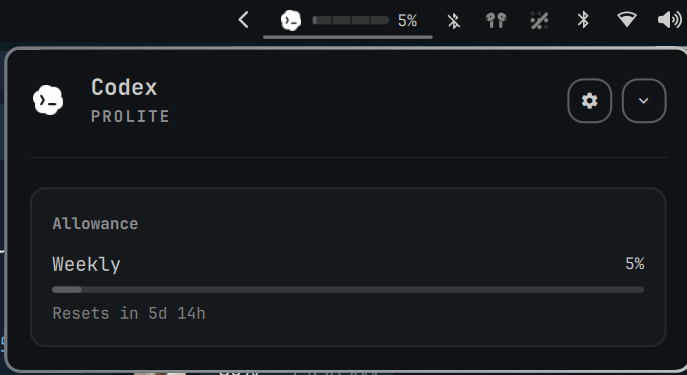
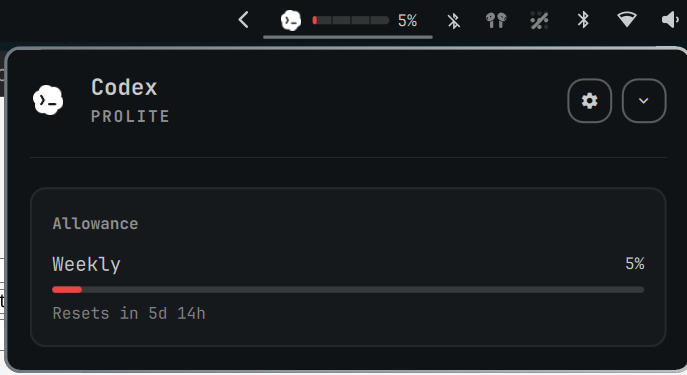
feat: make quota meter colors opt-in

diff --git a/Panel.qml b/Panel.qml
@@ -10,6 +10,7 @@ import "logic/aggregate.js" as Aggregate
 import "logic/history.js" as History
 import "logic/pace.js" as Pace
 import "logic/notifications.js" as Notify
+import "logic/meter-colors.js" as MeterColors
 
 Panel {
   id: root
@@ -19,10 +20,11 @@ Panel {
 
   readonly property color foreground: bar ? bar.foreground : Color.foreground
   readonly property color urgent: bar ? bar.urgent : Color.urgent
-  // Healthy quota gets a stable green so the meter reads as a traffic-light
-  // scale in every theme. Warn remains the intentionally fixed amber below;
-  // Critical continues to use Omarchy's live urgent color.
+  // The stable traffic-light colors are opt-in. With the option off, healthy
+  // meters retain the live foreground and Critical retains Omarchy's urgent
+  // color, preserving the widget's original theme contract.
   readonly property color healthy: "#22C55E"
+  readonly property color colorfulCritical: "#EF4444"
   // A fixed amber rather than a foreground/urgent blend: warn needs to read
   // as its own distinct traffic-light color at a glance, not a paler shade
   // of critical that's easy to mistake for it against a dim theme.
@@ -262,9 +264,12 @@ Panel {
     return Thresholds.severityFor(percent * 100, root.severityThresholds)
   }
   function colorForSeverity(severity) {
-    if (severity === "critical") return root.urgent
-    if (severity === "warn") return root.warn
-    return root.healthy
+    var role = MeterColors.paletteRole(severity, usage.colorfulUsageMeters)
+    if (role === "critical-red") return root.colorfulCritical
+    if (role === "critical") return root.urgent
+    if (role === "warn") return root.warn
+    if (role === "healthy") return root.healthy
+    return root.foreground
   }
 
   // A prepaid account runs low the way a subscription window fills up: the
@@ -2670,15 +2675,16 @@ Panel {
                   }
                 }
 
-                // Keep both immediate preferences on one visible row. The
-                // available-quota setting previously pushed Notifications and
-                // Test just below the initial viewport, making them look gone.
+                // Keep every immediate preference on one visible row. Adding
+                // another toggle must not make Settings taller or introduce
+                // scrolling; each cell stays comfortably within the wide
+                // settings panel.
                 Grid {
                   id: preferenceGrid
                   width: parent.width
-                  columns: 2
-                  columnSpacing: Style.space(16)
-                  readonly property real cellWidth: Math.floor((width - columnSpacing) / 2)
+                  columns: 3
+                  columnSpacing: Style.space(12)
+                  readonly property real cellWidth: Math.floor((width - columnSpacing * 2) / 3)
 
                   Row {
                     width: preferenceGrid.cellWidth
@@ -2694,7 +2700,28 @@ Panel {
 
                     Text {
                       anchors.verticalCenter: parent.verticalCenter
-                      text: "Show available instead of used quota"
+                      text: "Show available quota"
+                      color: root.foreground
+                      font.family: root.fontFamily
+                      font.pixelSize: Style.font.bodySmall
+                    }
+                  }
+
+                  Row {
+                    width: preferenceGrid.cellWidth
+                    spacing: Style.space(6)
+
+                    ToggleSwitch {
+                      anchors.verticalCenter: parent.verticalCenter
+                      checked: usage.colorfulUsageMeters
+                      foreground: root.foreground
+                      accent: Color.accent
+                      onToggled: usage.setColorfulUsageMeters(!usage.colorfulUsageMeters)
+                    }
+
+                    Text {
+                      anchors.verticalCenter: parent.verticalCenter
+                      text: "Color-code meters"
                       color: root.foreground
                       font.family: root.fontFamily
                       font.pixelSize: Style.font.bodySmall
@@ -2703,10 +2730,10 @@ Panel {
 
                   // Notifications are opt-in and fire once at each threshold,
                   // not on every refresh. Test remains independent of the
-                  // toggle and now reports its process result beside the button.
+                  // toggle and reports its process result beside the button.
                   Row {
                     width: preferenceGrid.cellWidth
-                    spacing: Style.space(8)
+                    spacing: Style.space(6)
 
                     ToggleSwitch {
                       anchors.verticalCenter: parent.verticalCenter
@@ -2718,7 +2745,7 @@ Panel {
 
                     Text {
                       anchors.verticalCenter: parent.verticalCenter
-                      text: "Warn/Critical notifications"
+                      text: "Threshold alerts"
                       color: root.foreground
                       font.family: root.fontFamily
                       font.pixelSize: Style.font.bodySmall
@@ -2748,7 +2775,7 @@ Panel {
 
                 Text {
                   width: parent.width
-                  text: "Available mode switches percentages, meters, and warning values together. Alerts remain opt-in and fire once per threshold crossing."
+                  text: "Available mode switches percentages, meters, and warning values together. Meter colors are optional; alerts remain opt-in."
                   color: root.dim
                   font.family: root.fontFamily
                   font.pixelSize: Style.font.caption

diff --git a/Main.qml b/Main.qml
@@ -407,6 +407,9 @@ Item {
   // collectors and internal threshold comparisons retain their canonical
   // used fractions so switching modes never changes when a warning fires.
   readonly property bool showAvailablePercentage: booleanSetting("showAvailablePercentage", false)
+  // Opt-in visual treatment only. Severity and notification transitions do
+  // not depend on this setting.
+  readonly property bool colorfulUsageMeters: booleanSetting("colorfulUsageMeters", false)
 
   readonly property var showInBarList: Aggregate.selectBarProviders(enabledProviders, settings)
   readonly property var barLayout: Aggregate.selectBarLayout(
@@ -583,6 +586,10 @@ Item {
 
   function setShowAvailablePercentage(value) {
     writeSetting("showAvailablePercentage", JSON.stringify(!!value))
+  }
+
+  function setColorfulUsageMeters(value) {
+    writeSetting("colorfulUsageMeters", JSON.stringify(!!value))
   }
 
   function setProviderBarRole(id, value) {

diff --git a/test/meter-colors.test.js b/test/meter-colors.test.js
@@ -1,0 +1,17 @@
+"use strict"
+
+const test = require("node:test")
+const assert = require("node:assert/strict")
+
+const MeterColors = require("../logic/meter-colors.js")
+
+test("paletteRole: colorful meters are explicitly green, amber, and red", () => {
+  assert.equal(MeterColors.paletteRole("ok", true), "healthy")
+  assert.equal(MeterColors.paletteRole("warn", true), "warn")
+  assert.equal(MeterColors.paletteRole("critical", true), "critical-red")
+})
+
+test("paletteRole: color coding is opt-in", () => {
+  assert.equal(MeterColors.paletteRole("ok", false), "foreground")
+  assert.equal(MeterColors.paletteRole("critical", false), "critical")
+})

diff --git a/logic/meter-colors.js b/logic/meter-colors.js
@@ -1,0 +1,13 @@
+// Semantic meter palette selection. QML owns the actual colors so the default
+// roles can keep following Omarchy's live theme; this module only decides
+// which role applies for a severity and the opt-in traffic-light setting.
+
+function paletteRole(severity, colorful) {
+  if (severity === "critical") return colorful === true ? "critical-red" : "critical"
+  if (severity === "warn") return "warn"
+  return colorful === true ? "healthy" : "foreground"
+}
+
+if (typeof module !== "undefined" && module.exports) {
+  module.exports = { paletteRole: paletteRole }
+}

diff --git a/docs/manual-qa.md b/docs/manual-qa.md
@@ -14,9 +14,10 @@ Automated tests cover extracted logic and record validation. They cannot show cl
   advances the rotating slice without changing the panel's selected tab.
 - [ ] `showInBar: false` hides only the meter, not the provider's panel tab. `enabled: false` hides it from both and stops collector refreshes for it.
 - [ ] When every known provider is hidden from the bar or disabled, the module glyph remains visible and opens settings. On a machine with no discovered record at all, the widget correctly stays absent.
-- [ ] Check normal and critical meter colors at the configured boundaries and
-  confirm they follow the current Omarchy theme after a theme change. Warn is
-  intentionally the fixed amber `#F2B705` so it remains distinct from Critical.
+- [ ] With "Color-code quota meters" off (default), check normal and Critical
+  meter colors follow the current Omarchy theme after a theme change. Warn is
+  intentionally fixed amber `#F2B705`. Enable the option and confirm both bar
+  and panel use green for Healthy, amber for Warn, and red for Critical.
 - [ ] Every provider mark is crisp (not soft/blurry) and reads as the same visual size at both bar scale and panel scale, including Claude and Codex against the rest of the set. Codex stays a plain white (or black on a light surface) mark, never tinted.
 - [ ] Hover or otherwise switch the bar to its light/transparent foreground and
   confirm provider marks switch to the matching light/default assets in the bar
@@ -44,6 +45,9 @@ Automated tests cover extracted logic and record validation. They cannot show cl
   appear. Both values must stay within their stated limits.
 - [ ] Change refresh interval and warn/critical thresholds, click Save, then confirm values survive `omarchy restart shell`. Settings must apply without a restart because the panel writes via `omarchy bar set`, not directly to `shell.json`.
 - [ ] Toggle "Show available instead of used quota": a 13% usage label and meter become 87% available in both the bar and limit rows, while Warn/Critical colors still trigger at the same real quota levels. Threshold controls complement automatically (75/90 used becomes 25/10 available), notifications say "available", the setting survives `omarchy restart shell`, and disabling it restores usage terms.
+- [ ] Toggle "Color-code quota meters": it defaults off, survives
+  `omarchy restart shell`, and changes both bar and panel meters together. It
+  must not change percentages, warning thresholds, or notification behavior.
 - [ ] Confirm an invalid externally-written threshold pair (`warn >= critical`) never crashes the panel; it should skip the warn band until the pair is corrected.
 - [ ] Edit a Behaviour field (e.g. type a new Warn value) without clicking Save, then toggle an unrelated switch (a provider's Enabled/Bar slot, or Notifications) — the in-progress edit and the "Unsaved changes" label must survive; the field must not snap back to its old value. Save commits every changed field in one go; closing and reopening Settings without saving discards the draft back to the live value.
 

diff --git a/CHANGELOG.md b/CHANGELOG.md
@@ -8,9 +8,9 @@ All notable changes to this project are documented in this file. The format is b
 
 - An opt-in setting switches percentages, meters, warning controls, and alerts
   together from quota used to quota available without changing trigger points.
-- Color-coded quota meters in both the bar and panel: green while healthy,
-  amber at Warn, and the live theme critical color at Critical. Severity stays
-  usage-based when the meter is shown as available quota.
+- An opt-in traffic-light palette color-codes quota meters in both the bar and
+  panel: green while healthy, amber at Warn, and red at Critical. Severity
+  stays usage-based when the meter is shown as available quota.
 - OpenCode Go collector (`collectors/agent_usage_collectors/opencode_go.py`): reads
   local session/token stats from opencode's own SQLite store and the
   authoritative rolling/weekly/monthly allowances from Zen's usage endpoint,
@@ -61,7 +61,8 @@ All notable changes to this project are documented in this file. The format is b
 ### Notes
 
 - The interface follows Omarchy's live theme. Warn remains deliberately amber
-  (`#F2B705`); Critical uses the theme's urgent color.
+  (`#F2B705`); Critical uses the theme's urgent color unless the opt-in
+  traffic-light palette is enabled, where Critical is explicitly red.
 - This is a major release: the bar/panel interaction model, provider layout,
   optional collectors, notifications, details view, and settings workflow are
   substantially different from 1.x.

diff --git a/README.md b/README.md
@@ -48,11 +48,12 @@ Requires Omarchy with Quickshell plugin support. The plugin has no other
 runtime dependency; optional collector setup is documented in
 [collectors/README.md](collectors/README.md).
 
-The widget follows Omarchy's live theme. Warn is fixed amber (`#F2B705`), and
-notifications are off by default; when enabled, each provider alerts once at
-Warn and once at Critical. The widget can optionally express quota as available
-instead of used; percentages, meters, warning controls, and alerts switch
-together while keeping the same underlying trigger points.
+The widget follows Omarchy's live theme. An optional traffic-light palette uses
+green, amber, and red for Healthy, Warn, and Critical meters. Notifications are
+off by default; when enabled, each provider alerts once at Warn and once at
+Critical. The widget can optionally express quota as available instead of used;
+percentages, meters, warning controls, and alerts switch together while keeping
+the same underlying trigger points.
 
 ![Available quota mode in Settings](preview-available.png)
 
